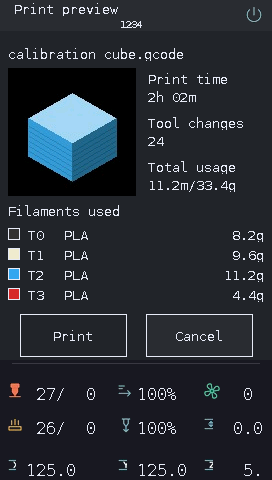
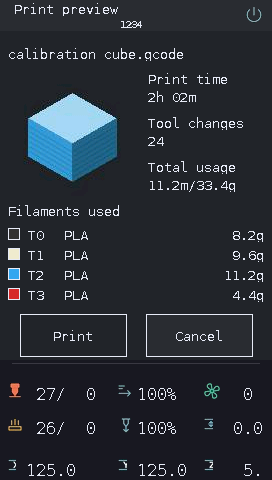
fix: blend transparent print thumbnails with the theme background
Share the LCD background color with thumbnail conversion, composite alpha and letterboxing before JPEG encoding, and preserve opaque black model details. Cover transparent and partial-alpha compositing plus theme color consistency, and refresh the preview through the production conversion path.

Local validation: 790 tests, 2 skipped.

Changed region(s): [[0.0294, 0.125, 0.5, 0.4062]]

diff --git a/tests/test_thumbnail_preview.py b/tests/test_thumbnail_preview.py
@@ -4,6 +4,9 @@ from unittest.mock import Mock, patch
 import unittest
 from PIL import Image
 from thumbnail_preview import image_jpeg, load_thumbnail
+from graphite_theme import BACKGROUND_COLOR, BACKGROUND_RGB
+from t5uic1_driver import T5UIC1Display
+from dwin_emulator.assets import rgb565, panel_colors
 from test_capabilities import display, snapshot
 import test_files
 
@@ -38,12 +41,24 @@ class ThumbnailTests(unittest.TestCase):
             self.assertEqual(image.size,(128,128))
             self.assertEqual(image.mode,'RGB')
             self.assertFalse(image.info.get('progressive',False))
-            self.assertLessEqual(max(image.getpixel((64,0))),2)
+            self.assertEqual(panel_colors(image).getpixel((64,0)), BACKGROUND_RGB)
             self.assertGreater(image.getpixel((64,64))[0],240)
         with Image.open(BytesIO(image_jpeg(png(color=(255,0,0,0))))) as image:
-            self.assertLessEqual(max(image.getpixel((64,64))),2)
+            self.assertEqual(panel_colors(image).getpixel((64,64)), BACKGROUND_RGB)
         for data in (b'corrupt',png((2100,2100))):
             with self.assertRaises(Exception):image_jpeg(data)
+
+    def test_alpha_blending_uses_ui_background_and_preserves_black_model(self):
+        self.assertEqual(T5UIC1Display.Color_Bg_Black, BACKGROUND_COLOR)
+        self.assertEqual(BACKGROUND_RGB, rgb565(T5UIC1Display.Color_Bg_Black))
+        for color in ((255, 0, 0, 128), (0, 0, 0, 255)):
+            with self.subTest(color=color):
+                expected = tuple(round((color[i] * color[3] + BACKGROUND_RGB[i] *
+                                        (255 - color[3])) / 255) for i in range(3))
+                with Image.open(BytesIO(image_jpeg(png(color=color)))) as image:
+                    actual = image.getpixel((64, 64))
+                    self.assertTrue(all(abs(a-b) <= 3 for a,b in zip(actual, expected)),
+                                    (actual, expected))
 
     def make(self):
         view=test_files.FileTests().display(['a.gcode','b.gcode'])

diff --git a/tools/render_docs_screenshots.py b/tools/render_docs_screenshots.py
@@ -32,6 +32,7 @@ from test_regressions import ui as application_ui
 BuzzerSettings = application_ui.BuzzerSettings
 from preview_metadata import PreviewDetails, Filament
 from thumbnail_cache import ThumbnailCache
+from thumbnail_preview import image_jpeg
 from mmu_filament_view import filament_color
 
 SCENES = []
@@ -219,15 +220,15 @@ def power():
 
 def cube_thumbnail():
     # Representative slicer-style sample model; UI uses the normal SRAM path.
-    image=Image.new('RGB',(128,128),'black'); draw=ImageDraw.Draw(image)
+    image=Image.new('RGBA',(128,128),(0,0,0,0)); draw=ImageDraw.Draw(image)
     draw.polygon([(20,50),(64,25),(108,50),(64,75)],fill='#a2d5ef')
     draw.polygon([(20,50),(64,75),(64,113),(20,88)],fill='#369bd4')
     draw.polygon([(64,75),(108,50),(108,88),(64,113)],fill='#22668a')
     for y in range(58,88,5):
         draw.line([(21,y),(63,y+25)],fill='#2c84b5')
         draw.line([(65,y+25),(107,y)],fill='#185776')
-    stream=BytesIO(); image.save(stream,format='JPEG',quality=92)
-    return stream.getvalue()
+    stream=BytesIO(); image.save(stream,format='PNG')
+    return image_jpeg(stream.getvalue())
 
 
 @scene('print-file', 'printing', 'Folders and G-code files', 'Klasörler ve G-code dosyaları')

diff --git a/thumbnail_preview.py b/thumbnail_preview.py
@@ -5,17 +5,18 @@ import time
 import logging
 from urllib.parse import quote
 from PIL import Image
+from graphite_theme import BACKGROUND_RGB
 from preview_metadata import PreviewData, details_from_metadata
 
 
 def image_jpeg(data):
-    """Produce a baseline 128x128 JPEG with a black letterbox background."""
+    """Composite alpha/letterboxing on the UI surface before baseline JPEG."""
     with Image.open(BytesIO(data)) as source:
         if source.width * source.height > 4_000_000:
             raise ValueError('Thumbnail too large')
         source.thumbnail((128, 128), Image.Resampling.LANCZOS)
         rgba = source.convert('RGBA')
-        canvas = Image.new('RGB', (128, 128), 'black')
+        canvas = Image.new('RGB', (128, 128), BACKGROUND_RGB)
         canvas.paste(rgba, ((128-rgba.width)//2, (128-rgba.height)//2), rgba)
     output = BytesIO()
     canvas.save(output, format='JPEG', quality=70, subsampling=2,

diff --git a/graphite_theme.py b/graphite_theme.py
@@ -1,4 +1,9 @@
-"""Graphite icon compositing policy, separate from the generic panel API."""
+"""Graphite background colors and icon compositing policy."""
+
+BACKGROUND_COLOR = 0x2125
+# Expand the LCD RGB565 value exactly, so opaque JPEG backing matches the UI.
+_r, _g, _b = BACKGROUND_COLOR >> 11, (BACKGROUND_COLOR >> 5) & 63, BACKGROUND_COLOR & 31
+BACKGROUND_RGB = ((_r << 3) | (_r >> 2), (_g << 2) | (_g >> 4), (_b << 3) | (_b >> 2))
 
 
 def show_icon(lcd, library, icons, x, y):

diff --git a/t5uic1_driver.py b/t5uic1_driver.py
@@ -18,6 +18,7 @@ from threading import Lock
 import display_settings
 import buzzer_control
 import serial
+from graphite_theme import BACKGROUND_COLOR
 
 
 class T5UIC1ProtocolError(RuntimeError):
@@ -92,7 +93,7 @@ class T5UIC1Display:
     Color_Yellow = 0xFF0F
     Color_Bg_Window = 0x2967
     Color_Bg_Blue = 0x2966
-    Color_Bg_Black = 0x2125
+    Color_Bg_Black = BACKGROUND_COLOR
     Color_Bg_Red = 0xF00F
     Popup_Text_Color = 0xE75E
     Line_Color = 0x39C8

diff --git a/docs/lcd-assets_TR.md b/docs/lcd-assets_TR.md
@@ -16,7 +16,7 @@ Kurulumdan sonra fiziksel ekranda menü yazılarını/ikonlarını, renkleri, ö
 
 ## Baskı önizlemeleri
 
-Önizlemeler Moonraker'dan gelir ve yeni panel kaynak paketi gerektirmez. Eksik thumbnail baskı başlatmayı engellemez. Görseller yeniden başlatma veya yeniden bağlantı sonrası tekrar hazırlanır; kurulu ikonların yerine geçmez.
+Önizlemeler Moonraker'dan gelir ve yeni panel kaynak paketi gerektirmez. Eksik thumbnail baskı başlatmayı engellemez. Görseller yeniden başlatma veya yeniden bağlantı sonrası tekrar hazırlanır; kurulu ikonların yerine geçmez. Şeffaf thumbnail pikselleri ve kenar boşlukları baseline 4:2:0 JPEG dönüşümünden önce temanın zemin rengiyle birleştirilir; modelin opak siyah ayrıntıları korunur.
 
 ## Kaynakları tanıma
 

diff --git a/docs/lcd-assets.md b/docs/lcd-assets.md
@@ -16,7 +16,7 @@ After setup, inspect menu labels/icons, colors, preview images and encoder navig
 
 ## Print previews
 
-Previews come from Moonraker and do not need a new panel asset pack. Missing thumbnails do not prevent starting a print. Images are prepared again after restarting or reconnecting; they do not replace installed icons.
+Previews come from Moonraker and do not need a new panel asset pack. Missing thumbnails do not prevent starting a print. Images are prepared again after restarting or reconnecting; they do not replace installed icons. Transparent thumbnail pixels and letterboxing are composited onto the theme background before baseline 4:2:0 JPEG conversion; opaque black model details are preserved.
 
 ## Resource identification
 
